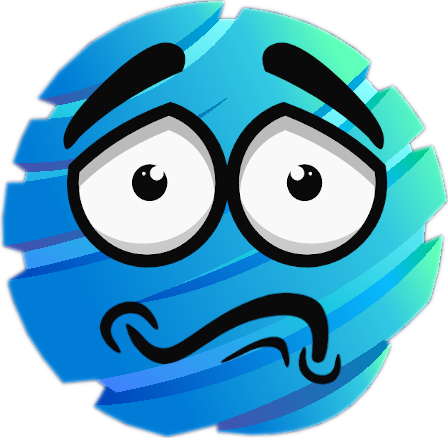
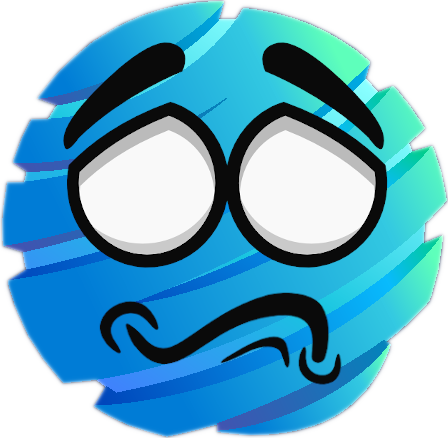
performs basic eye movement

Changed region(s): [[0.625, 0.3562, 0.7188, 0.4749], [0.2812, 0.3562, 0.375, 0.4749]]

diff --git a/js/gameEngine.js b/js/gameEngine.js
@@ -6,7 +6,7 @@ import levels from './levels.js'
 import Planet from './gameObjects/planet.js'
 import Star from './gameObjects/stars.js'
 import Collision from './collision.js'
-import { mapDiameter, mapRadius, oneFrac } from './gameUtils.js'
+import { mapDiameter, mapRadius } from './gameUtils.js'
 
 // import image from './image.js'
 
@@ -37,8 +37,8 @@ export default class GameEngine {
         const currlevel = levels[this.levelNum][0]
         currlevel.forEach(enemy => {
             let enemyInst = new Enemy()
-                enemyInst.x = enemy.x * oneFrac; // this.x = x;
-                enemyInst.y = enemy.y * oneFrac; // this.y = y;
+                enemyInst.x = enemy.x ; // this.x = x;
+                enemyInst.y = enemy.y ; // this.y = y;
                 enemyInst.degree = enemy.degree;
                 Enemy.setVelXandY(enemyInst);
                 // console.log('VX:' + enemyInst.velX)
@@ -60,38 +60,40 @@ export default class GameEngine {
         const currlevel = levels[this.levelNum][1]
         currlevel.forEach(planet => {
             let planetInst = new Planet()
-            planetInst.x = planet.x * oneFrac; // this.x = x;
-            planetInst.y = planet.y * oneFrac; // this.y = y;
+            planetInst.x = planet.x ; // this.x = x;
+            planetInst.y = planet.y ; // this.y = y;
             planetInst.velX = planet.velX; // this.velx = velx;
             planetInst.velY = planet.velY;  // this.vely = vely;
-            planetInst.width = planet.width; // this.size = size;
-            planetInst.height = planet.height; // this.size = size;
+            planetInst.width = planet.width ; // this.size = size;
+            planetInst.height = planet.height ; // this.size = size;
+            planetInst.centerX = planetInst.x + planetInst.width / 2;
+            planetInst.centerY = planetInst.y + planetInst.width / 2;
             planetInst.color = planet.color; // this.color = color;
             planetInst.img = new Image();
             planetInst.img.src = planet.imageSrc;
 
 
             // planet eyes
-            planetInst.radiusEyeIn = 3; // controls puple size
+            planetInst.radiusEyeIn = 5 ; // controls puple size
+                                                    //-10
+            planetInst.eyeYPosition = planetInst.centerY - (planetInst.width / 8); // controlls eyes vertical position relative to face
+            console.log(planetInst.centerX)
+            planetInst.reyedx = planetInst.centerX + (planetInst.radiusEyeIn / 2) + (planetInst.width / 8) ; // controls postion of right puple
+            planetInst.reyedy = planetInst.eyeYPosition ;
 
-            planetInst.eyeYPosition = planetInst.y - 80; // controlls eyes vertical position relative to face
-
-            planetInst.reyedx = planetInst.x + (planetInst.radiusEyeIn / 2) + 14 // controls postion of right puple
-            planetInst.reyedy = planetInst.eyeYPosition
-
-            planetInst.leyedx = planetInst.x - (planetInst.radiusEyeIn / 2) - 14 // controls postion of left puple
-            planetInst.leyedy = planetInst.eyeYPosition
+            planetInst.leyedx = planetInst.centerX - (planetInst.radiusEyeIn / 2) - (planetInst.width / 8) ; // controls postion of left puple
+            planetInst.leyedy = planetInst.eyeYPosition ;
 
             
-            planetInst.eyesgap = 4; // controls how off center the puples eye trackiing is
+            planetInst.eyesgap = (planetInst.width / 12) ; // controls how off center the puples eye trackiing is
             
-            planetInst.reyedxafter = planetInst.reyedx;
-            planetInst.reyedyafter = planetInst.reyedy;
+            planetInst.reyedxafter = planetInst.reyedx ;
+            planetInst.reyedyafter = planetInst.reyedy ;
             
-            planetInst.leyedxafter = planetInst.leyedx;
+            planetInst.leyedxafter = planetInst.leyedx ;
+            planetInst.leyedyafter = planetInst.leyedy ;
             console.log(planetInst.leyedx)
             console.log(planetInst.reyedx)
-            planetInst.leyedyafter = planetInst.leyedy;
 
             this.planets.push(planetInst)
         })
@@ -106,7 +108,6 @@ export default class GameEngine {
                 let currX = fracOfWidth * j
                 let currY = fracOfHeight * i
 
-                
                 if (Math.sqrt((mapRadius - currX) ** 2 + (mapRadius - currY) ** 2) > mapRadius) continue;
                 let star = new Star
                 // star.increment = 4.25;
@@ -146,7 +147,7 @@ export default class GameEngine {
     }
 
     checkGameState() {
-        this.loop();
+        // this.loop();
     }
 
     loop() {
@@ -156,7 +157,5 @@ export default class GameEngine {
         this.move.move()
         requestAnimationFrame(this.checkGameState.bind(this))
     }
-
-
 
 }

diff --git a/js/display.js b/js/display.js
@@ -50,9 +50,9 @@ export default class Display {
 
         this.objectsToRender.forEach(object => {
             if (object instanceof Star) {
-                // this.renderStar(object);
+                this.renderStar(object);
             } else if ( object instanceof Enemy ) {
-                // this.renderEnemy(object);
+                this.renderEnemy(object);
             } else if ( object instanceof Planet ) {
                 this.renderPlanet(object);
             } else if ( object instanceof Rocket ) {
@@ -94,14 +94,14 @@ export default class Display {
         // draws right puple
         this.ctx.beginPath();
         this.ctx.arc(planet.reyedxafter, planet.reyedyafter, planet.radiusEyeIn, 0, 2 * Math.PI, false);
-        this.ctx.fillStyle = 'rgba(255,0,0,1)';
+        this.ctx.fillStyle = 'rgba(0,0,0,1)';
         this.ctx.fill();
         this.ctx.stroke()
 
         // draws left puple
         this.ctx.beginPath();
         this.ctx.arc(planet.leyedxafter, planet.leyedyafter, planet.radiusEyeIn, 0, 2 * Math.PI, false);
-        this.ctx.fillStyle = 'rgba(255,0,0,1)';
+        this.ctx.fillStyle = 'rgba(0,0,0,1)';
         this.ctx.fill();
         this.ctx.stroke()
     }

diff --git a/js/move.js b/js/move.js
@@ -34,7 +34,7 @@ export default class Move {
         this.FRAME = (this.FRAME === 60) ? 0 : ++this.FRAME
         this.objectsToMove.forEach(object => {
             if (object instanceof Enemy) {
-                // this.moveEnemy(object)
+                this.moveEnemy(object)
             } else if (object instanceof Rocket) {
                 this.moveRocket(object)
             } else if (object instanceof Planet) {
@@ -101,8 +101,8 @@ export default class Move {
 
     movePlanet(planet) {
         //focus on eye movement now.
-    var mouseX = this.rocket.x - 8 - planet.x;
-    var mouseY = this.rocket.y - 8 - planet.eyeYPosition;
+    var mouseX = this.rocket.centerY - 8 - planet.x;
+    var mouseY = this.rocket.centerX - 8 - planet.eyeYPosition;
     // console.log(this.offsetTop)
     // console.log('hello')
     // console.log(mouseX)

diff --git a/js/gameUtils.js b/js/gameUtils.js
@@ -92,13 +92,13 @@ const angelToSlope = {
     '89': [9.998, -0.175],
 }
 
-const SCREEN_WIDTH = window.innerWidth
-const SCREEN_HEIGHT = window.innerHeight
-const mapDiameter = (SCREEN_HEIGHT > SCREEN_WIDTH) ? SCREEN_HEIGHT * 1.5 : SCREEN_WIDTH * 1.5;
-const mapRadius = mapDiameter / 2
-
-// const mapDiameter = 640 * 1.5
+// const SCREEN_WIDTH = window.innerWidth
+// const SCREEN_HEIGHT = window.innerHeight
+// const mapDiameter = (SCREEN_HEIGHT > SCREEN_WIDTH) ? SCREEN_HEIGHT * 1.5 : SCREEN_WIDTH * 1.5;
 // const mapRadius = mapDiameter / 2
+
+const mapDiameter = 812 * 1.5
+const mapRadius = mapDiameter / 2
 
 const oneFrac = mapDiameter / 1000
 

diff --git a/js/gameObject.js b/js/gameObject.js
@@ -1,4 +1,4 @@
-import { angelToSlope, oneFrac } from './gameUtils.js'
+import { angelToSlope } from './gameUtils.js'
 
 export default class GameObject {
     constructor() {
@@ -20,7 +20,7 @@ export default class GameObject {
             slope = angelToSlope[`${modDegree}`];
             slope = [(slope[1]), (-slope[0])]
         }
-        enemy.velX = (slope[0] * oneFrac) * enemy.TRAVEL_SPEED;
-        enemy.velY = (slope[1] * oneFrac) * enemy.TRAVEL_SPEED; 
+        enemy.velX = (slope[0] ) * enemy.TRAVEL_SPEED;
+        enemy.velY = (slope[1] ) * enemy.TRAVEL_SPEED; 
     }
 } 
